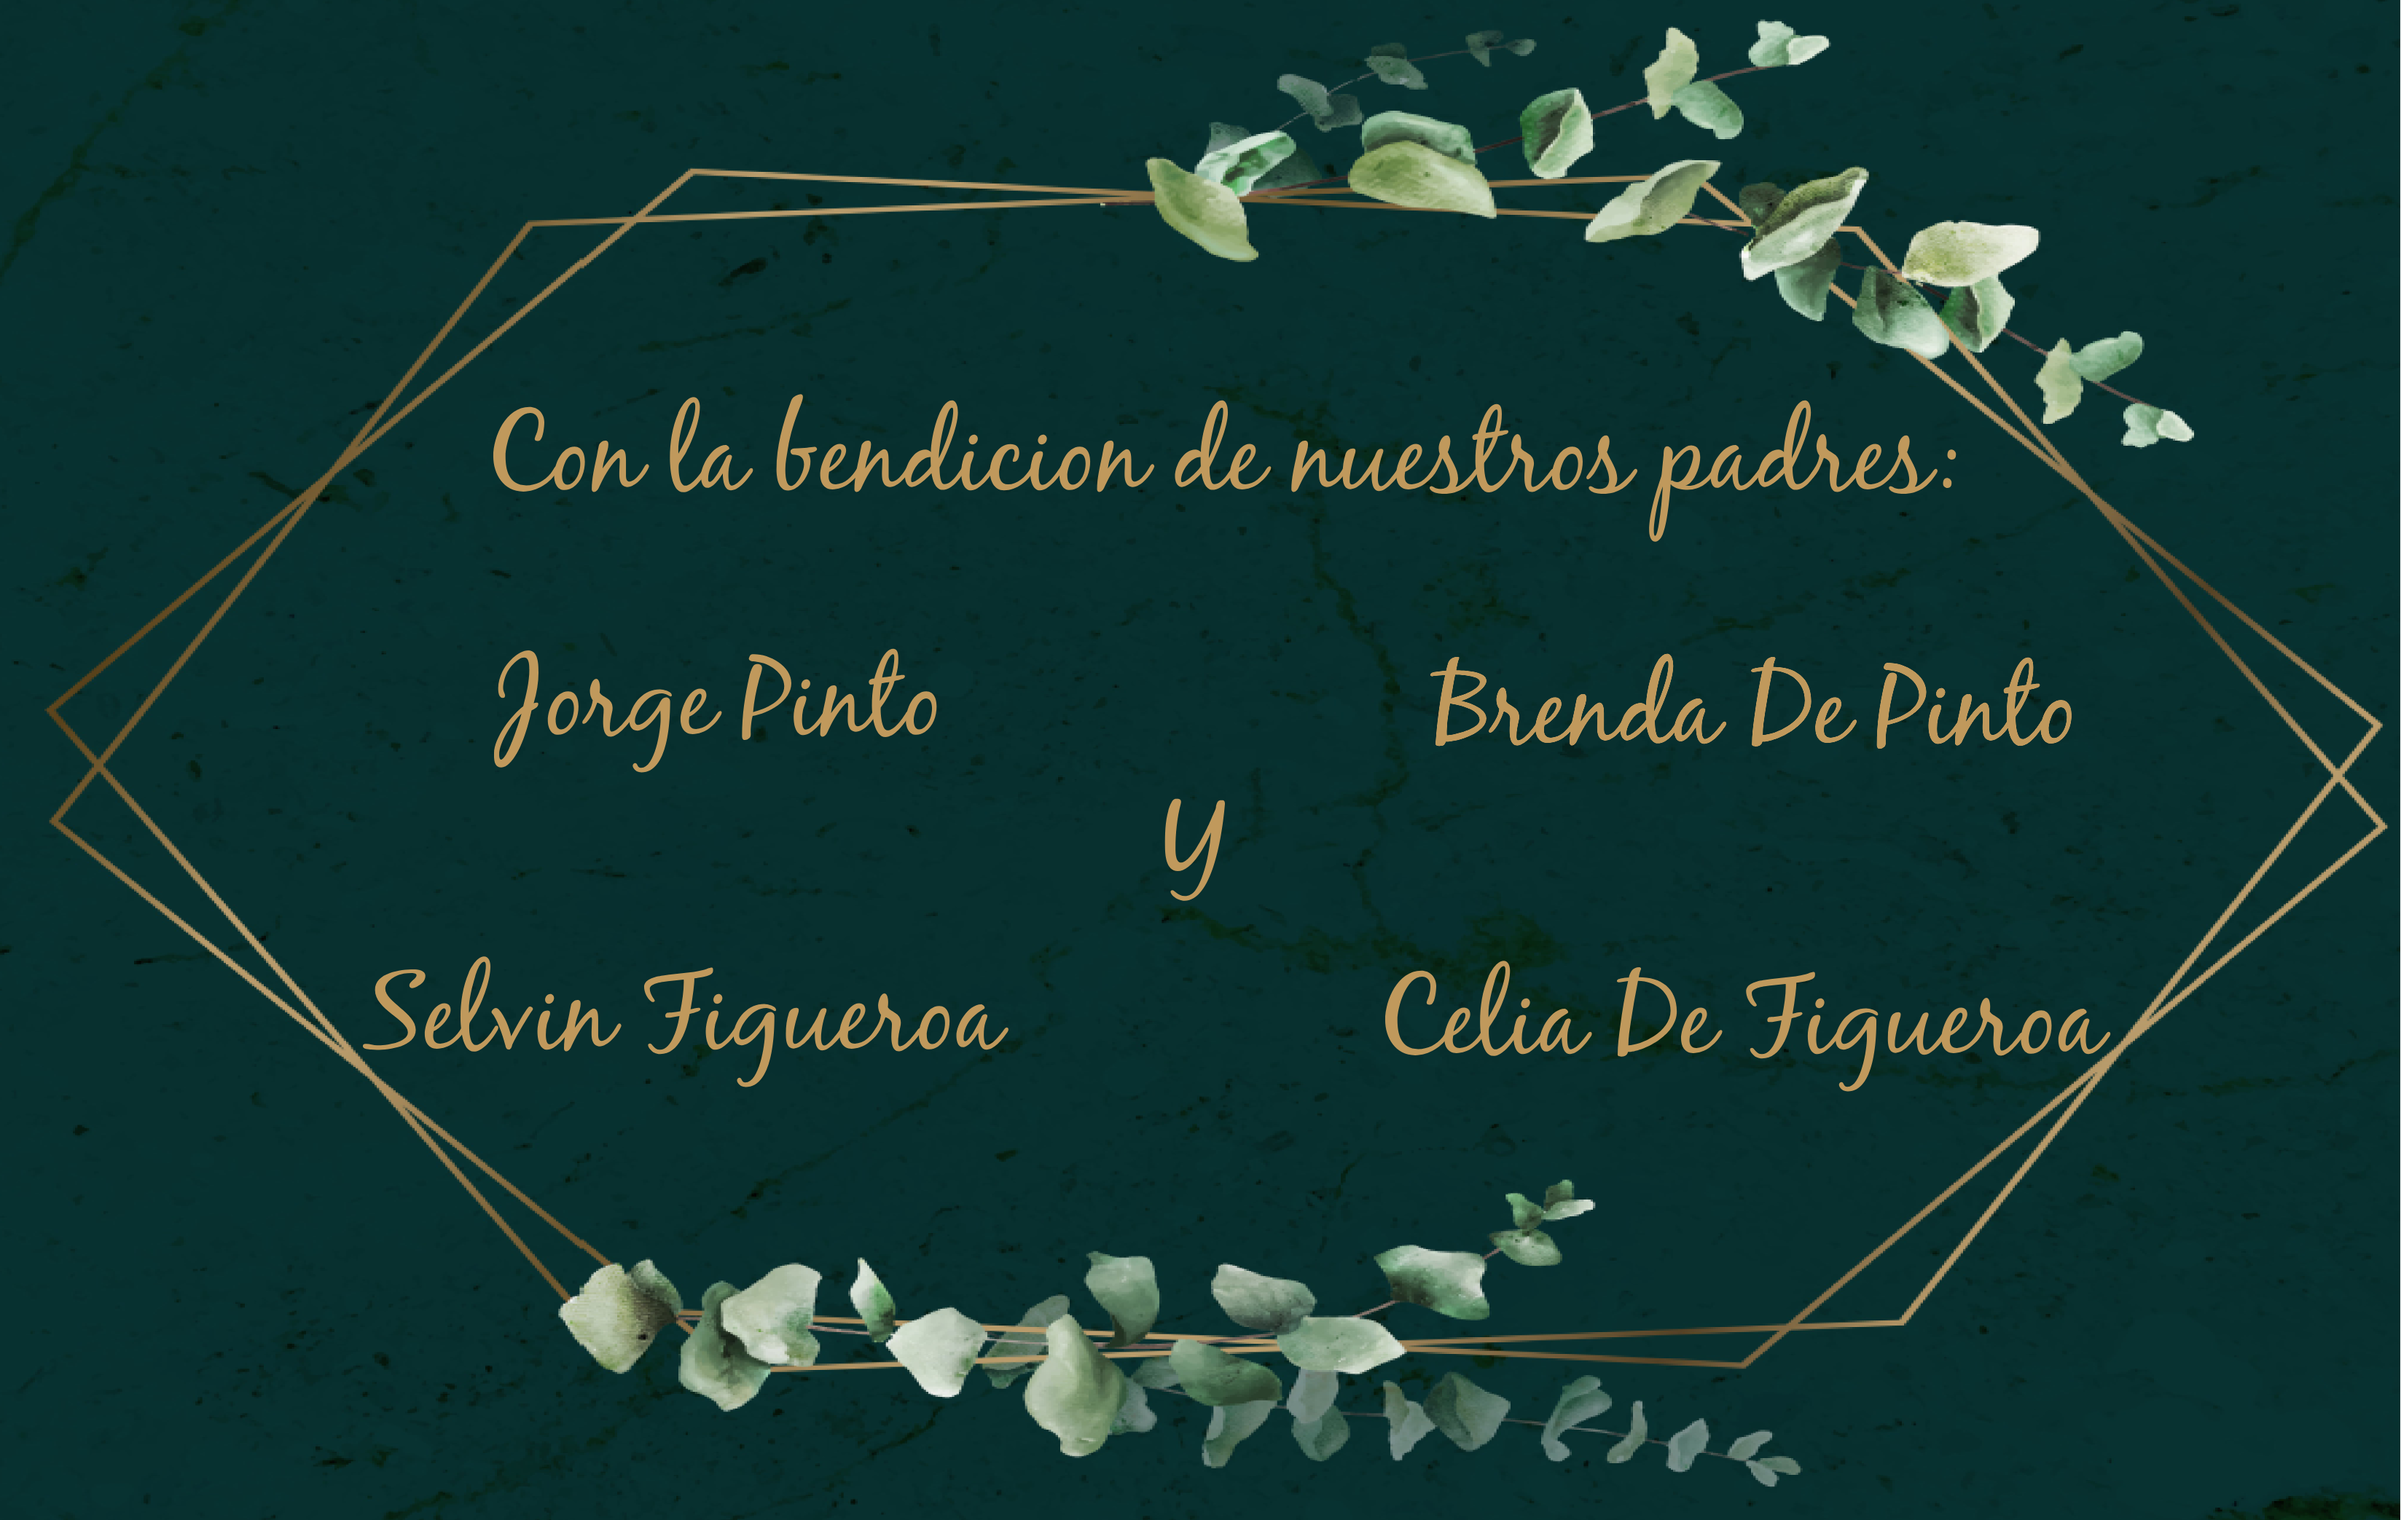
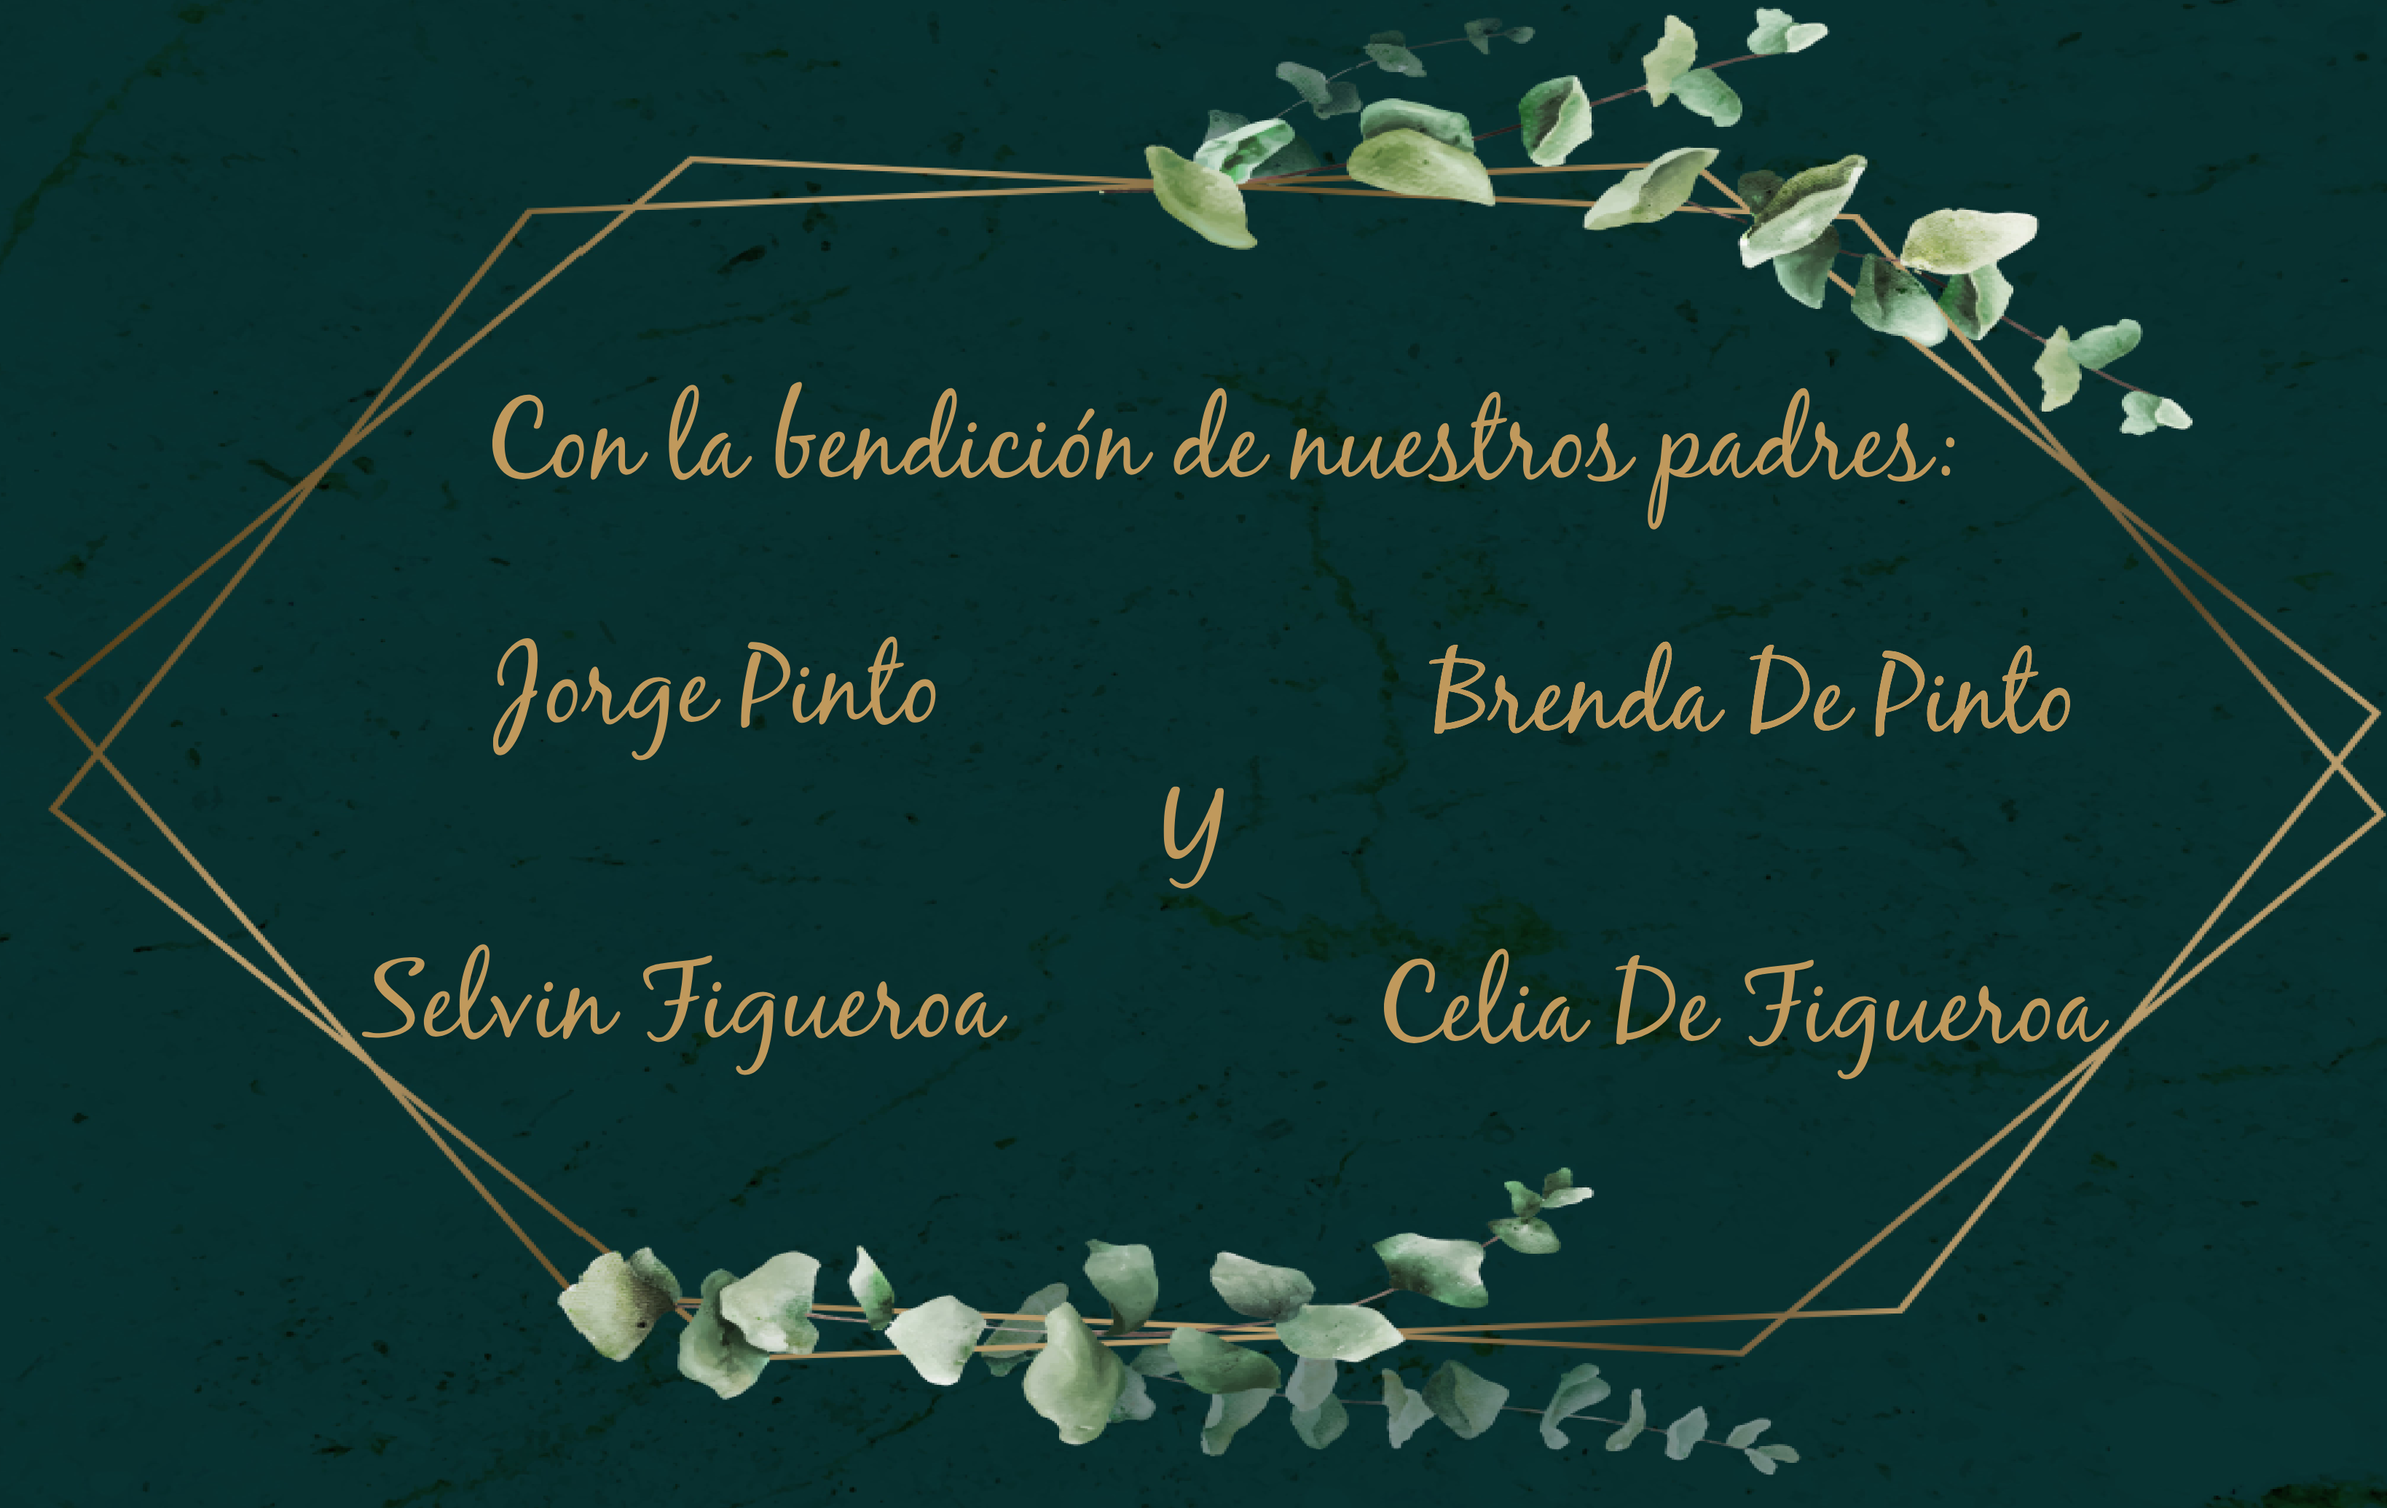
ver 2.6
Correcciones ortograficas y copy

diff --git a/main.js b/main.js
@@ -205,26 +205,26 @@ document.addEventListener('DOMContentLoaded', () => {
 });
 
 const invitaciones = [
-    { nombre: "Familia Pinto Chavez", totalInvitados: 7 },
+    { nombre: "Familia Pinto Chávez", totalInvitados: 7 },
     { nombre: "Lizbeth Pinto", totalInvitados: 2 },
     { nombre: "Sergio y Karina", totalInvitados: 2 },
     { nombre: "Yessenia Pinto", totalInvitados: 1 },
-    { nombre: "Esposos Martinez Hernandez", totalInvitados: 2 },
-    { nombre: "Andrea Linarez e Hijos", totalInvitados: 3 },
-    { nombre: "Familia Hernandez Linares", totalInvitados: 3 },
-    { nombre: "Esposos Linares Mendez", totalInvitados: 2 },
+    { nombre: "Esposos Martínez Hernández", totalInvitados: 2 },
+    { nombre: "Andrea Linares e Hijos", totalInvitados: 3 },
+    { nombre: "Familia Hernández Linares", totalInvitados: 3 },
+    { nombre: "Esposos Linares Méndez", totalInvitados: 2 },
     { nombre: "Sergio y Caroll", totalInvitados: 2 },
-    { nombre: "Familia Mendez Gonzalez", totalInvitados: 4 },
-    { nombre: "Familia Calderon Mendez", totalInvitados: 4 },
-    { nombre: "Haroldo Mendez", totalInvitados: 1 },
+    { nombre: "Familia Méndez González", totalInvitados: 4 },
+    { nombre: "Familia Calderón Méndez", totalInvitados: 4 },
+    { nombre: "Haroldo Méndez", totalInvitados: 1 },
     { nombre: "Gladys Tello", totalInvitados: 1 },
     { nombre: "Lizardo y Ana", totalInvitados: 2 },
     { nombre: "Esposos Mijangos Soto", totalInvitados: 2 },
     { nombre: "Felipe Villatoro y Pareja", totalInvitados: 2 },
     { nombre: "Esposos Orellana Sagastume", totalInvitados: 2 },
     { nombre: "Sergio Villatoro y Pareja", totalInvitados: 2 },
-    { nombre: "Erick Martinez y Pareja", totalInvitados: 2 },
-    { nombre: "Andre Alvarado y Pareja", totalInvitados: 2 },
+    { nombre: "Erick Martínez y Pareja", totalInvitados: 2 },
+    { nombre: "André Alvarado y Pareja", totalInvitados: 2 },
     { nombre: "Esposos Herrera Galindo", totalInvitados: 2 },
     { nombre: "Hugo Cajas y Esposa", totalInvitados: 2 },
     { nombre: "Gladys de Rosario", totalInvitados: 1 },
@@ -232,19 +232,19 @@ const invitaciones = [
     { nombre: "Karen Zarate", totalInvitados: 1 },
     { nombre: "Rodrigo Blanco", totalInvitados: 1 },
     { nombre: "Esposos Saenz Figueroa", totalInvitados: 2 },
-    { nombre: "Dulce Velasquez", totalInvitados: 1 },
+    { nombre: "Dulce Velásquez", totalInvitados: 1 },
     { nombre: "Familia Hidalgo Figueroa", totalInvitados: 4 },
-    { nombre: "Familia Agustin Argueta", totalInvitados: 3 },
+    { nombre: "Familia Agustín Argueta", totalInvitados: 3 },
     { nombre: "Nelson y Maritza", totalInvitados: 2 },
     { nombre: "Leonardo y Sulma", totalInvitados: 2 },
-    { nombre: "Familia Agustin Carrillo", totalInvitados: 3 },
+    { nombre: "Familia Agustín Carrillo", totalInvitados: 3 },
     { nombre: "Sandra Carrillo e hijos", totalInvitados: 3 },
     { nombre: "Julia Alva", totalInvitados: 1 },
     { nombre: "Jorge y Leticia", totalInvitados: 3 },
     { nombre: "Jissel Ola y Pareja", totalInvitados: 2 },
-    { nombre: "Luis Godinez y Pareja", totalInvitados: 2 },
-    { nombre: "Familia Valdez Perez", totalInvitados: 3 },
-    { nombre: "Maria Figueroa", totalInvitados: 1 },
+    { nombre: "Luis Godínez y Pareja", totalInvitados: 2 },
+    { nombre: "Familia Valdéz Pérez", totalInvitados: 3 },
+    { nombre: "María Figueroa", totalInvitados: 1 },
     { nombre: "Arcadio y Meli", totalInvitados: 2 },
     { nombre: "Gustavo Laing y Pablo Choz", totalInvitados: 2 },
     { nombre: "Brayan y Jaqueline", totalInvitados: 2 },
@@ -253,7 +253,7 @@ const invitaciones = [
     { nombre: "Poncia Saldivar y Mayly Figueroa", totalInvitados: 2 },
     { nombre: "Jorge Figueroa y Doris", totalInvitados: 2 },
     { nombre: "Brayan Girón y Pareja", totalInvitados: 2 },
-    { nombre: "Odilia Leiva y Pareja", totalInvitados: 2 }
+    { nombre: "Odilia Leiva y Pareja", totalInvitados: 2 }
 ];
 
 const urlParams = new URLSearchParams(window.location.search);

diff --git a/invitación.html b/invitación.html
@@ -87,6 +87,7 @@
 
             <div id="carouselExampleIndicators"
                 class="carousel slide carousel-fade col-10"
+                style="box-shadow: 0 10px 20px rgba(0, 0, 0, 0.6);"
                 data-bs-ride="carousel">
                 <div class="carousel-indicators">
                     <button type="button"
@@ -185,12 +186,12 @@
                 </div>
             </div>
         </article>
-        <article id="Carta">
+        <article>
             <div
                 class="d-flex flex-column align-items-center justify-content-center w-100 clipped-triangle-back ">
                 <div
                     class="d-flex flex-column align-items-center justify-content-center w-100 clipped-triangle pb-5">
-                    <div
+                    <div id="Carta"
                         class="col-11 rounded-5 content-columns mb-5 fade-Contenedor ">
                         <img src="Recursos/Bendicion.png"
                             class="d-block content-item rounded-4 w-100"
@@ -283,12 +284,12 @@
                             </div>
                         </div>
                     </div>
-                    <div
-                        class="col-8 bg-dark rounded-4">
+                    <div id="Carta"
+                        class="col-8 bg-dark rounded-4"
+                        style="box-shadow: 0 10px 20px rgba(0, 0, 0, 0.6);">
                         <img src="Recursos/Fondo3Carta.png"
                             class="d-block w-100  rounded-4" alt>
-                        <div id="carouselExample" class="carousel slide"
-                            style="box-shadow: 0 10px 20px rgba(0, 0, 0, 0.6);">
+                        <div id="carouselExample" class="carousel slide">
                             <div class="carousel-inner w-100">
                                 <div class="carousel-item imgCar active"
                                     data-bs-toggle="modal"
@@ -334,7 +335,7 @@
                             class="d-block w-100  rounded-4" alt>
                     </div>
 
-                    <div
+                    <div id="Carta"
                         class="col-11 rounded-3 my-5 fade-Contenedor d-flex flex-column align-items-center justify-content-center"
                         style="background-color: rgb(28, 48, 39);">
                         <div
@@ -473,9 +474,16 @@
                             </div>
                         </div>
                     </div>
+                    <p class="fs-5" id="copy">Copyright
+                        © 2024 Brandon Pinto Guatemala</p>
+                    <p class="fs-5" id="copy"><i
+                            class="bi bi-envelope" id="copy"></i>
+                        branps18@gmail.com <i class="bi bi-whatsapp"></i> 5726
+                        2117</p>
                 </div>
 
             </div>
+
         </article>
         <div class="modal fade" id="exampleModal" tabindex="-1"
             aria-labelledby="exampleModalLabel" aria-hidden="true">
@@ -494,6 +502,7 @@
                 </div>
             </div>
         </div>
+
         <script
             src="https://cdn.jsdelivr.net/npm/bootstrap@5.3.3/dist/js/bootstrap.bundle.min.js"
             integrity="sha384-YvpcrYf0tY3lHB60NNkmXc5s9fDVZLESaAA55NDzOxhy9GkcIdslK1eN7N6jIeHz"

diff --git a/main.css b/main.css
@@ -338,6 +338,10 @@
   #imagenTitulo{
     width: 50vw;
   }
+  #copy{
+    font-family:'Gill Sans', 'Gill Sans MT', Calibri, 'Trebuchet MS', sans-serif;
+    color: rgba(37, 68, 54, 0.4);
+  }
 #Carta h1, 
 #Carta i, 
 #Carta h2, 
